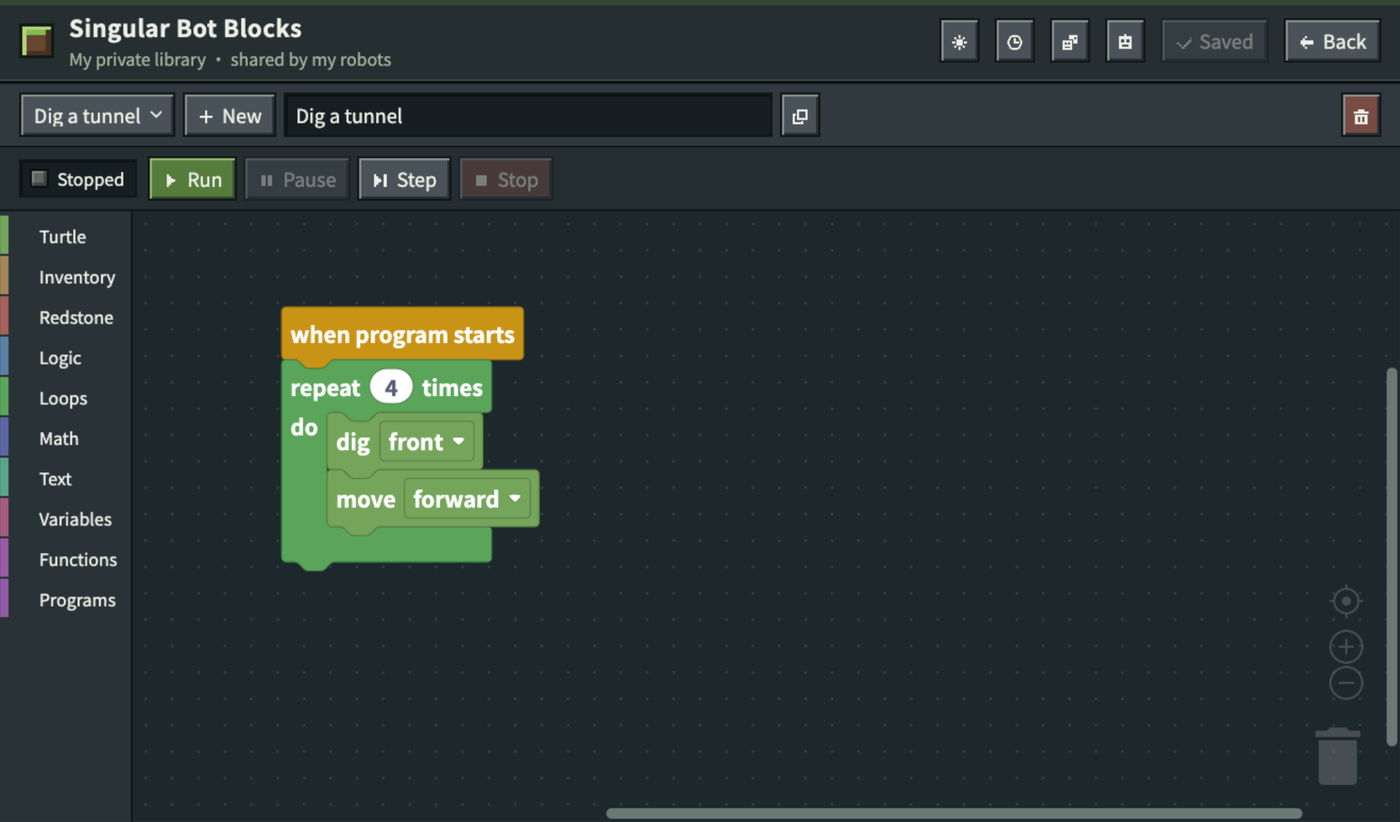
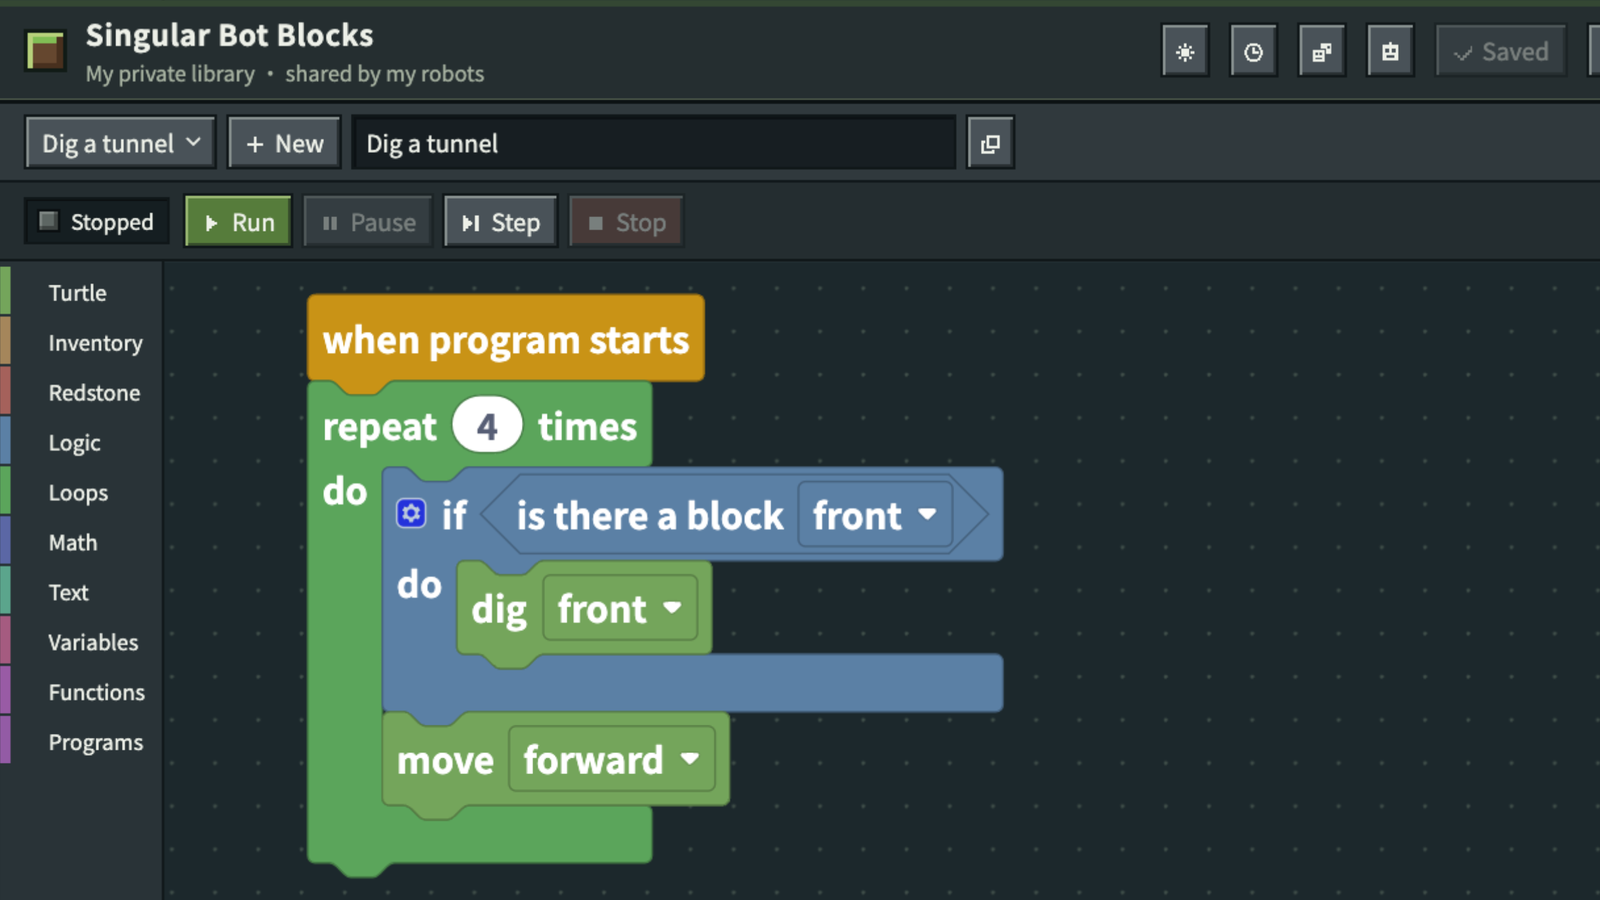
Reshoot README screenshots and animations in a new world
Replace the README images with new captures from a fresh flat world:
a closer block editor, the editor shrunk beside a running robot, a
robot tunnelling through stone, a new ore-mining animation that ends
on the robot's backpack, and new controller, appearance, multi-robot,
creative tab and edge-light shots.

Also carry over workflow artifact retention (3 days) and a Publish
check that skips versions already on Modrinth.

Changed region(s): [[0.1843, 0.3041, 0.645, 0.9732], [0.0, 0.0, 1.0, 0.8516], [0.43, 0.4258, 1.0, 1.0]]

diff --git a/README.md b/README.md
@@ -8,7 +8,7 @@ A classroom mod for Minecraft Java 1.21.1 / NeoForge: students program their own
 
 ## The robot
 
-![Three robots whose edge light runs in silver-blue, green and red](docs/images/robot-signals.gif)
+![Three white robots whose edge lights show idle in silver-blue, running in green and an error in red](docs/images/robot-signals.gif)
 
 A light runs around all twelve edges of every robot, in every body colour, and its colour shows what the robot's program is doing:
 
@@ -34,16 +34,18 @@ The robot also glows on its own. Its eye screen and edge light stay bright in th
 
 | | |
 | --- | --- |
-| ![The Singular Bot Blocks creative tab with its one Programming Robot](docs/images/creative-tab.png) | ![A pink robot named Robo 1 next to its small controller](docs/images/controller.jpg) |
+| ![The Singular Bot Blocks creative tab with its one Programming Robot](docs/images/creative-tab.png) | ![A pink robot with its diamond pickaxe next to its small controller](docs/images/controller.jpg) |
 | One robot in the creative tab | Right-click the robot to drive it |
-| ![The appearance page with the robot's name, decoration and colour arrows](docs/images/appearance.jpg) | ![Four robots in green, pink, blue and orange with different decorations](docs/images/robots.jpg) |
+| ![The appearance page with the robot's name Robo 1, decoration and colour arrows](docs/images/appearance.jpg) | ![Four robots in orange, blue, pink and green with a straw hat, sunglasses, a crown and a headband](docs/images/robots.jpg) |
 | Name it, pick a colour and a decoration | Every student's robot can look different |
 
-![The block editor with a program: when program starts, repeat 4 times, dig front, move forward](docs/images/editor.png)
+![The block editor with a program: when program starts, repeat 4 times, if there is a block in front then dig front, move forward](docs/images/editor.png)
 
-![A robot digging through a row of planks and moving forward after Run](docs/images/running.gif)
+![The editor shrunk to the side while the robot digs, with the if, dig and move blocks lighting up in turn](docs/images/running-blocks.gif)
 
-![The editor shrunk to the side while the robot digs, with the dig and move blocks lighting up in turn](docs/images/running-blocks.gif)
+![A robot with a diamond pickaxe and a green edge light digging through a row of stone towards the camera](docs/images/tunnel.gif)
+
+![A robot mining a row of diamond, gold, iron, emerald, redstone, lapis, coal and copper ore, then its backpack holding what it collected](docs/images/mining.gif)
 
 ## For teachers
 

diff --git a/docs/install.md b/docs/install.md
@@ -4,7 +4,7 @@ This is a gameplay development build, not a classroom release. Full classroom ac
 
 ## Native build
 
-The **Native browser** GitHub Actions workflow runs on Windows x64, Linux x64 and Apple Silicon for ready pull requests that change the native sources, or by hand. Native build artifacts and source manifests are retained in the private repository's Actions tab for 30 days. To keep a run's exact archives, dispatch the **Native release** workflow with that run id: it checks each archive against its recorded SHA-256, the pinned JCEF/CEF versions and the current patch set, then publishes the archives, build manifests and `SHA256SUMS` as a private prerelease. Native artifact creation and release storage are not runtime certification.
+The **Native browser** GitHub Actions workflow runs on Windows x64, Linux x64 and Apple Silicon for ready pull requests that change the native sources, or by hand. Native build artifacts and source manifests are retained in the private repository's Actions tab for 3 days. To keep a run's exact archives, dispatch the **Native release** workflow with that run id: it checks each archive against its recorded SHA-256, the pinned JCEF/CEF versions and the current patch set, then publishes the archives, build manifests and `SHA256SUMS` as a private prerelease. Native artifact creation and release storage are not runtime certification.
 
 macOS Intel (`macos_amd64`) is unsupported: no physical Intel Mac is available for acceptance. CI no longer builds it (owner decision 2026-10-15, to save macOS runner minutes); earlier packages stay in their releases for reference, and Rosetta results remain supplemental Apple Silicon evidence. `browser-smoke.yml` and a local `scripts/native_browser.py build --platform macos_amd64` on Intel hardware can still produce it.
 
